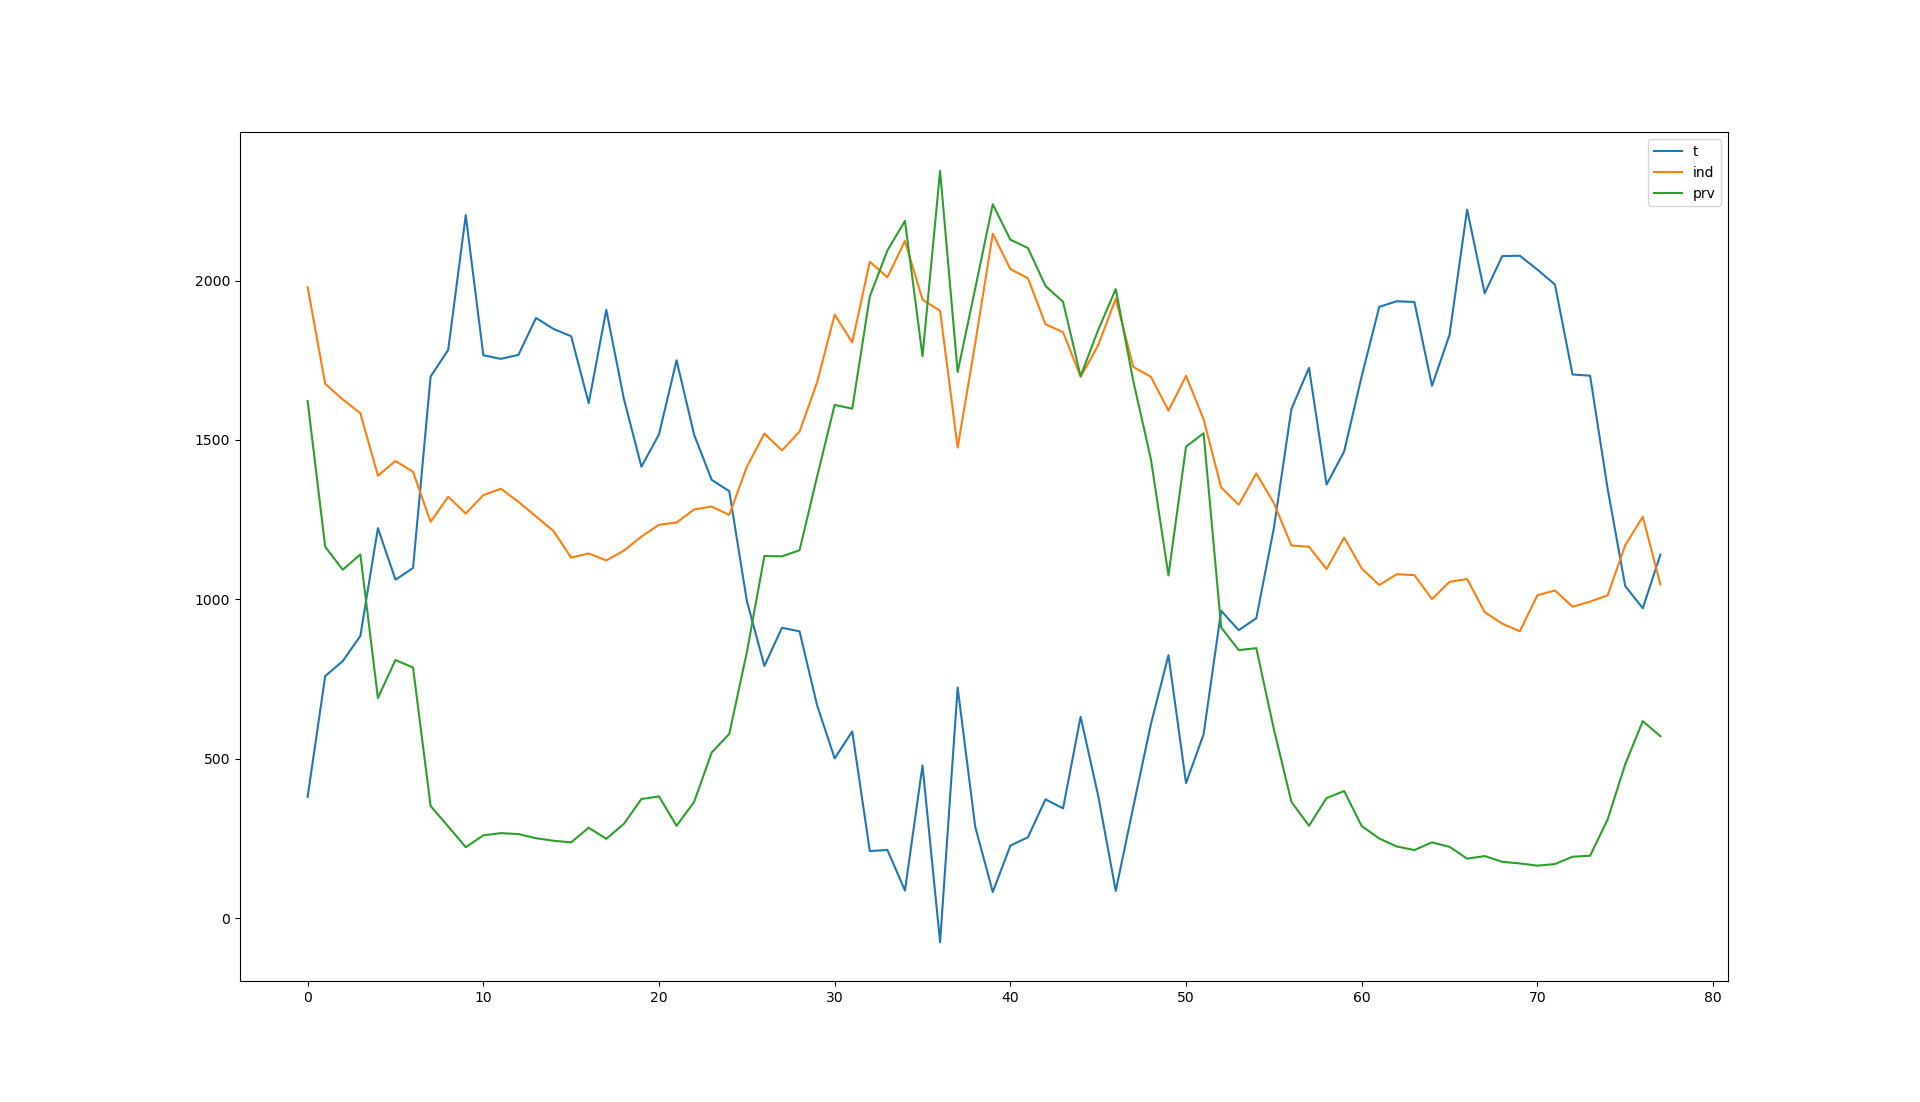
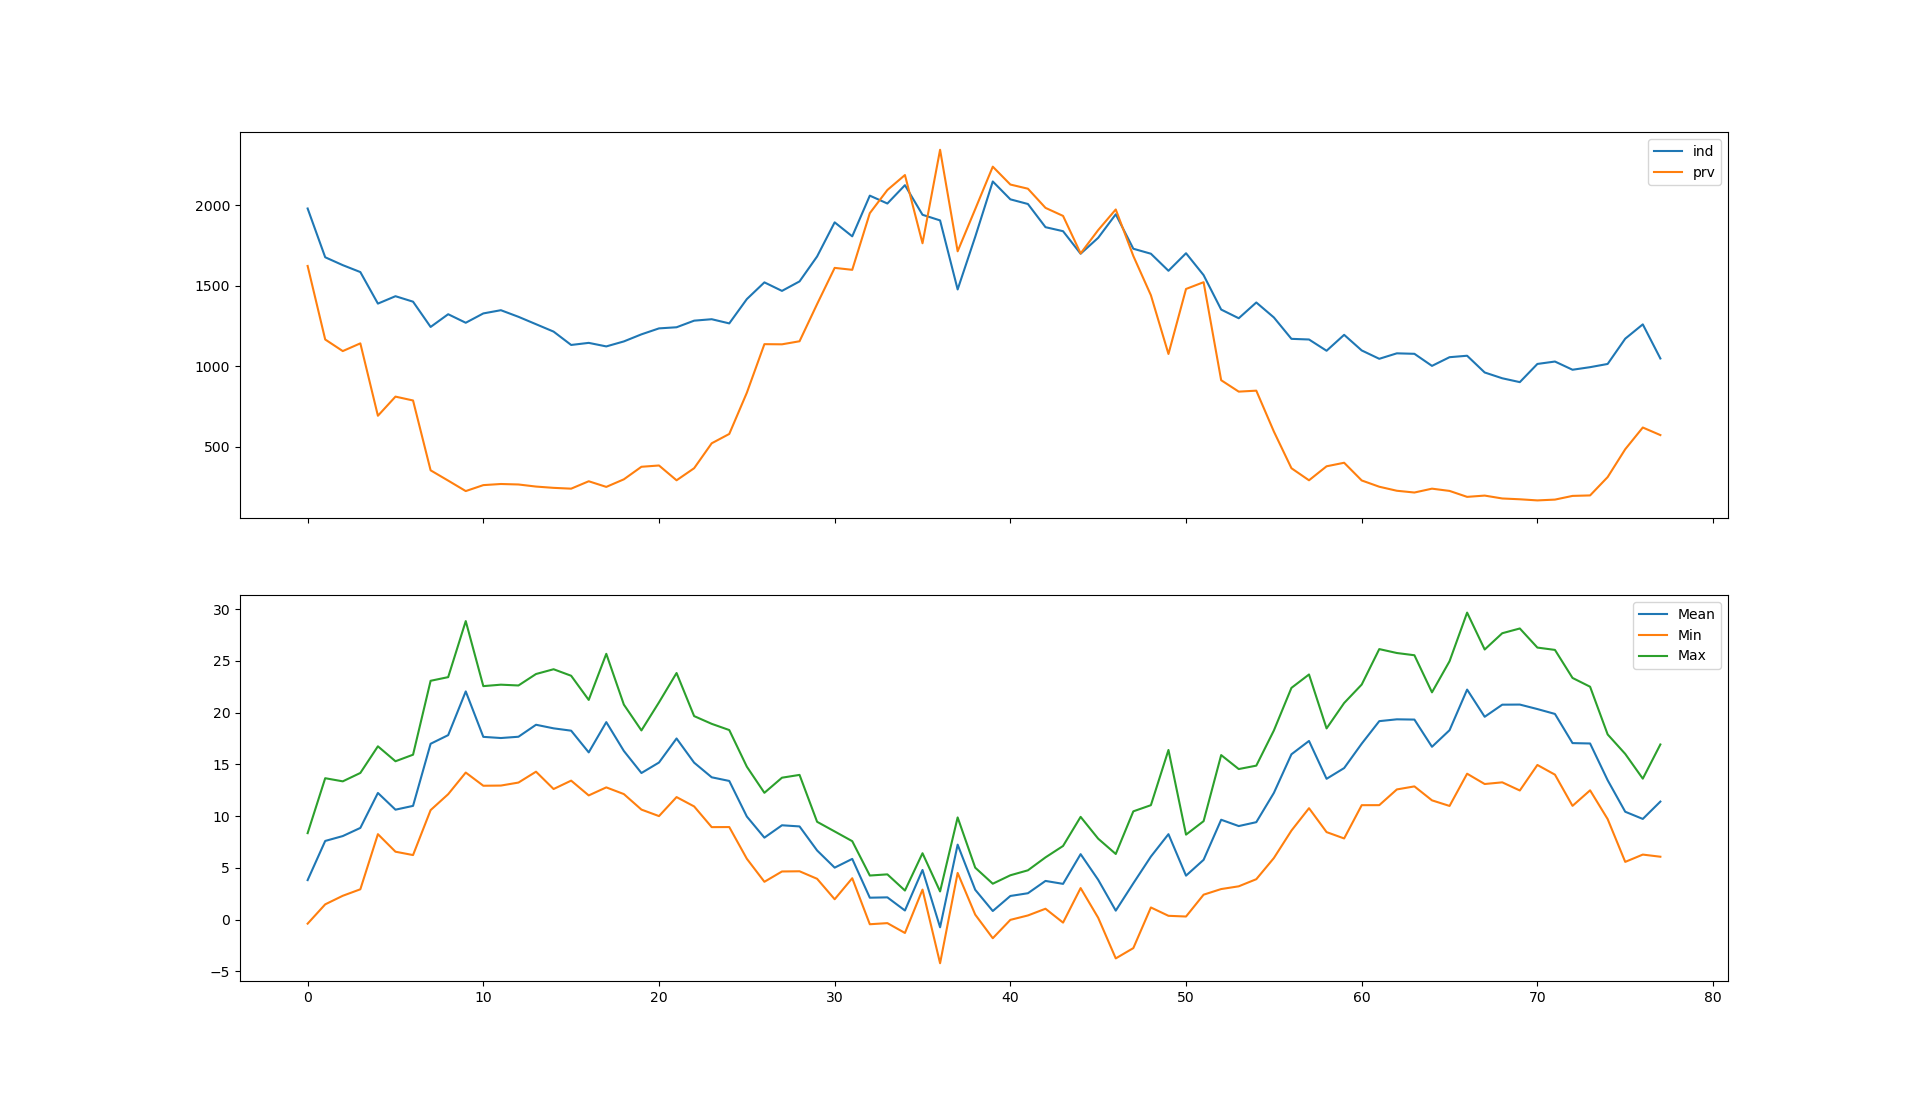
Add files via upload

diff --git a/mergeBnetza.py b/mergeBnetza.py
@@ -46,5 +46,10 @@ if len(dwd) > len(bna):
 klima = pd.merge(bna,dwd)
 klima["t"] = klima.Mean * 100 # scale temperature by 100
 klima.to_csv("klima.csv")
-klima.plot(y=["t","ind","prv"])
+fig, axes = plt.subplots(nrows=2, ncols=1,sharex=True)
+
+klima.plot(ax=axes[0],y=["ind","prv"])
+klima.plot(ax=axes[1],y=["Mean","Min","Max"])
+
 plt.show()
+
